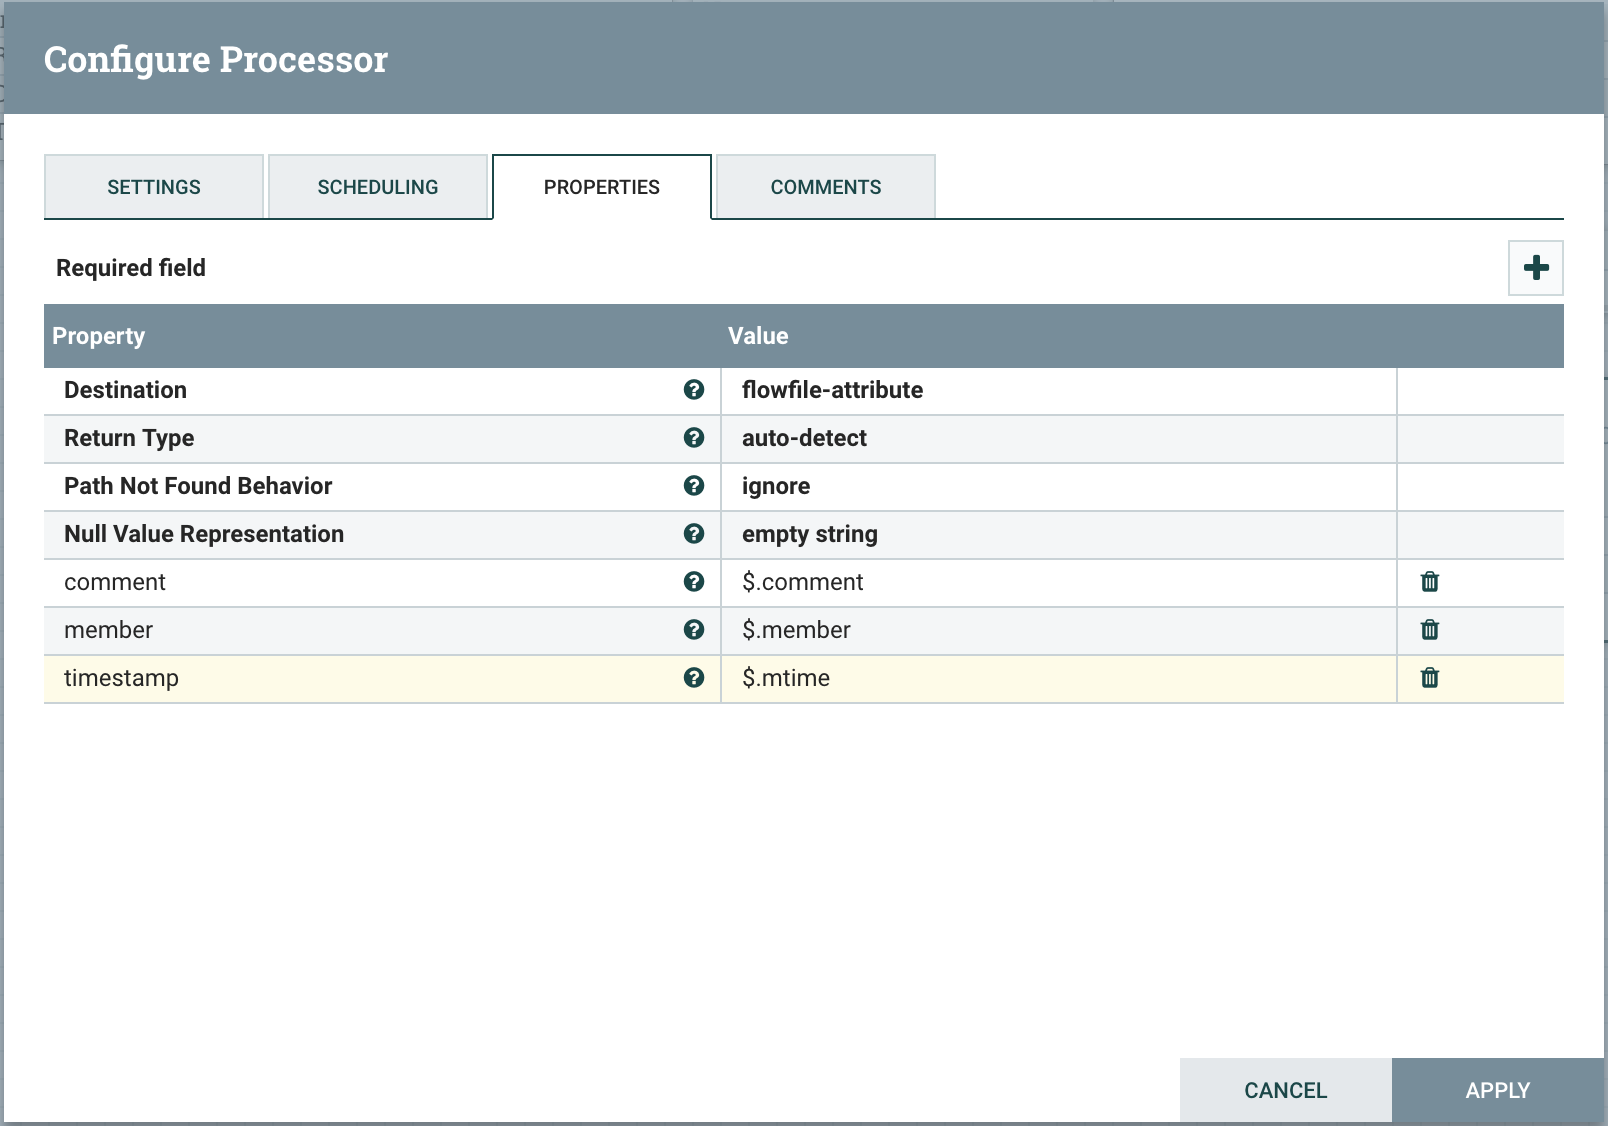
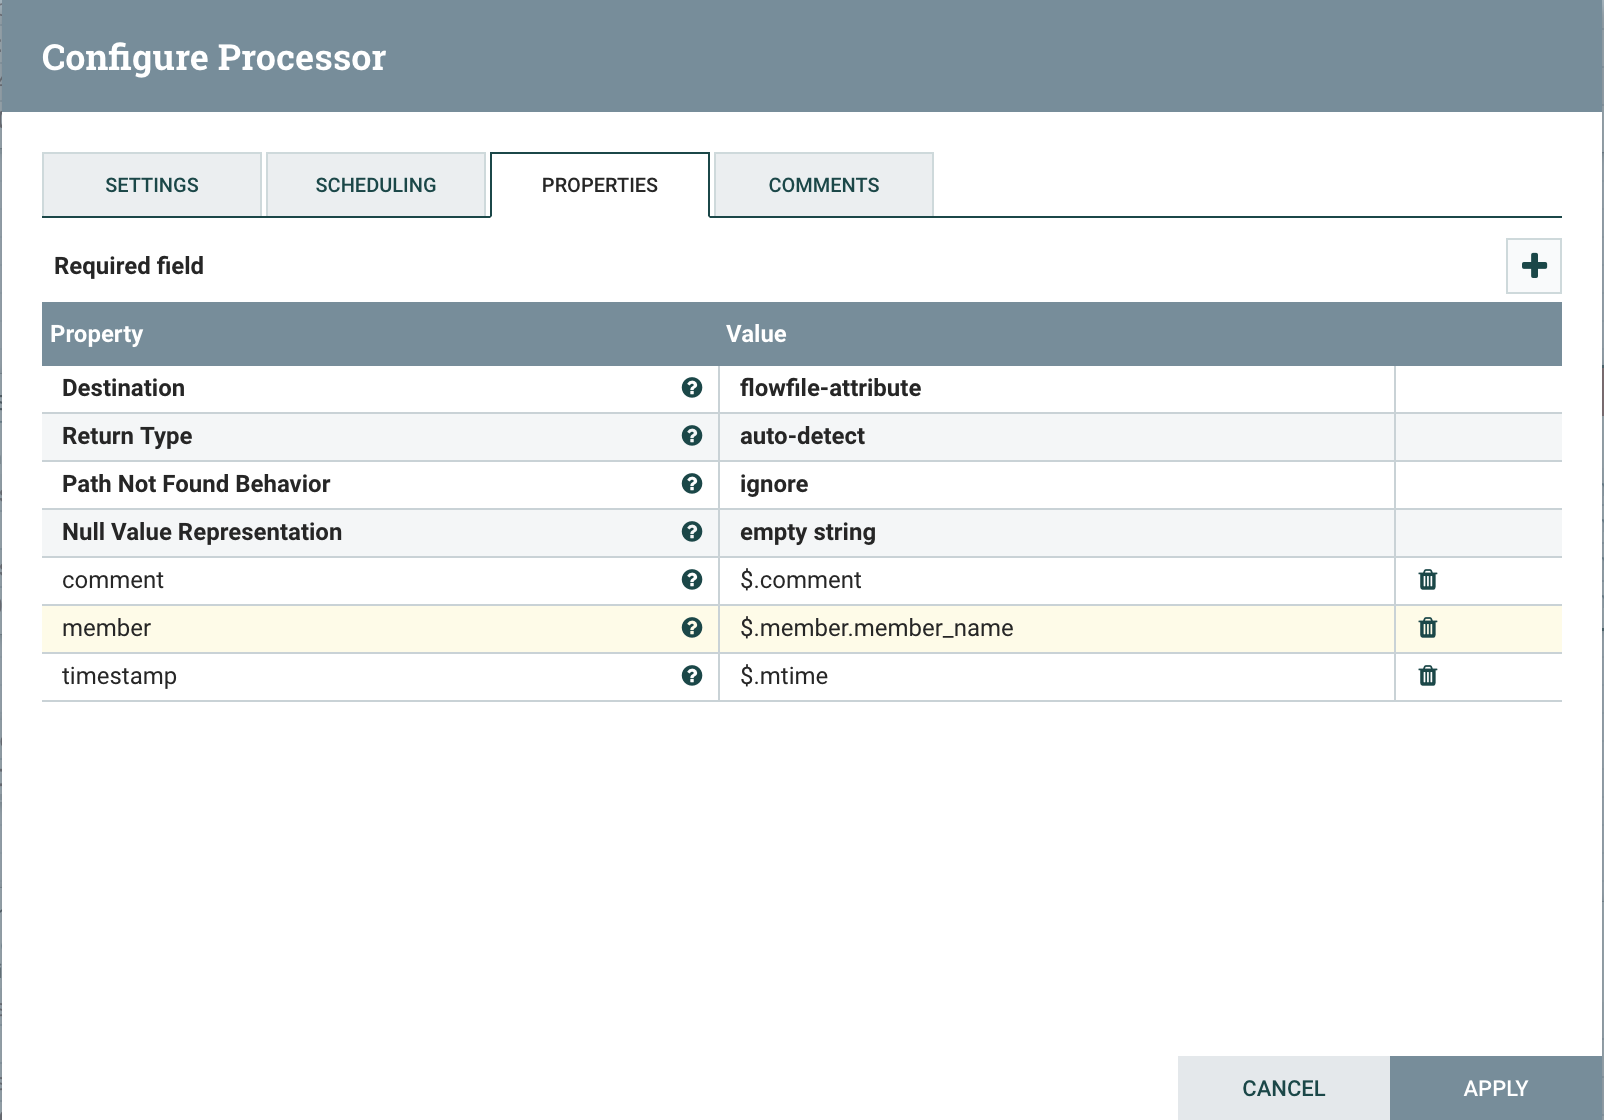
update

diff --git a/README.md b/README.md
@@ -130,7 +130,7 @@ Let's get started... Open [NiFi UI](http://demo.hortonworks.com:9090/nifi/) and 
   - Change **Destination** value to **flowfile-attribute**
   - Add properties as follow
     - comment: $.comment
-    - member: $.member
+    - member: $.member.member_name
     - timestamp: $.mtime
     
     ![EvaluateJsonPath 1 properties](images/evaluatejsonpathproperties1.png)
@@ -141,30 +141,27 @@ Let's get started... Open [NiFi UI](http://demo.hortonworks.com:9090/nifi/) and 
     {"visibility":"public","member":{"member_id":11643711,"photo":"https:\/\/secure.meetupstatic.com\/photos\/member\/3\/1\/6\/8\/thumb_273072648.jpeg","member_name":"Loka Murphy"},"comment":"I didn’t when I registered but now thinking I want to try and get one since it’s only taking place once.","id":-259414201,"mtime":1541557753087,"event":{"event_name":"Tunnel to Viaduct 8k Run","event_id":"256109695"},"table_name":"event_comment","group":{"join_mode":"open","country":"us","city":"Seattle","name":"Seattle Green Lake Running Group","group_lon":-122.34,"id":1608555,"state":"WA","urlname":"Seattle-Greenlake-Running-Group","category":{"name":"fitness","id":9,"shortname":"fitness"},"group_photo":{"highres_link":"https:\/\/secure.meetupstatic.com\/photos\/event\/9\/e\/f\/4\/highres_465640692.jpeg","photo_link":"https:\/\/secure.meetupstatic.com\/photos\/event\/9\/e\/f\/4\/600_465640692.jpeg","photo_id":465640692,"thumb_link":"https:\/\/secure.meetupstatic.com\/photos\/event\/9\/e\/f\/4\/thumb_465640692.jpeg"},"group_lat":47.61},"in_reply_to":496130460,"status":"active"}
     ```
 
-- Step 4: Add a AttributeToJSON connector to the canvas and link from EvaluateJsonPath on **matched** relationship
+- Step 4: Add a AttributeToCSV connector to the canvas and link from EvaluateJsonPath on **matched** relationship
   - Double click on the processor
   - On settings tab, check **failure** relationship
   - Change **Destination** value to **flowfile-content**
-  - Change **Attribute List** value to **network,time,sentiment,text,url**
+  - Change **Attribute List** value to write only the above parsed attributes: **timestamp, member, comment**
   - Apply changes
   
-- Step 5: Add a MergeContent connector to the canvas and link from AttributeToJSON on **success** relationship
-  - Double click on the processor
-  - On settings tab, check both **failure** and **original** relationships
-  - Apply changes
-  
-- Step 6: Add a PutFile connector to the canvas and link from MergeContent on **merge** relationship
+- Step 5: Add a PutFile connector to the canvas and link from AttributeToJSON on **success** relationship
   - Double click on the processor
   - On settings tab, check all relationships
-  - Change **Directory** value to **/tmp/socialmedia**
+  - Change **Directory** value to **/tmp/workshop**
   - Change **Conflict Resolution Strategy** value to **replace**
   - Apply changes
   
-- Step 7: Start the entire flow
+- Step 6: Start the entire flow
 
 ![NiFi Flow 1](images/flow1.png)
 
-Explore the file created under /tmp/socialmedia
+Explore the files created under /tmp/workshop
+
+**Once done, stop the flow and delete all files ```sudo rm -rf /tmp/workshop/*```**
 
 ## Explore Kafka
 
